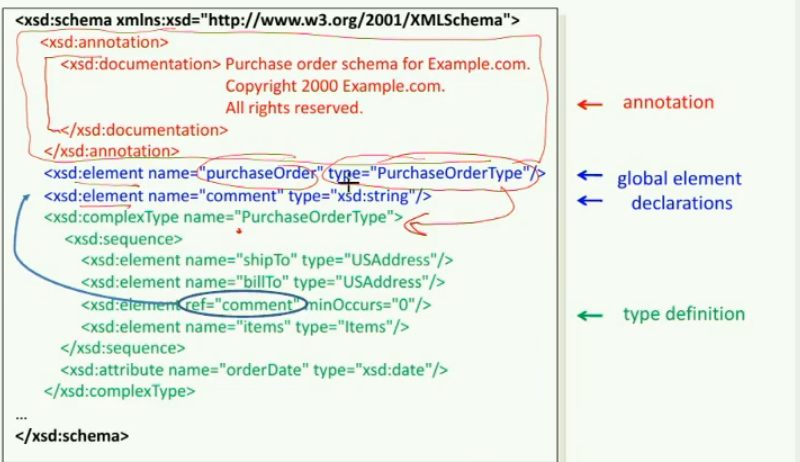
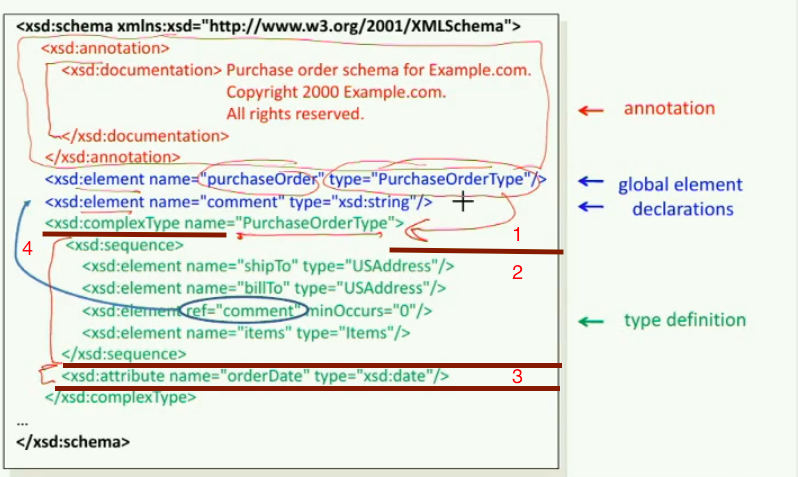
Video 04 h 15
-Esempio schema

Changed region(s): [[0.0, 0.0, 0.9323, 1.0]]

diff --git a/03 - XML Schema.md b/03 - XML Schema.md
@@ -204,7 +204,7 @@ dove:
 - Dentro alla root element possiamo trovare in qualsiasi ordine: 
   - annotazioni (che sono delle annotazioni)  
   - elementi globali e dichiarazioni di attributi che sono simili agli attributi e elementi che si hanno nei DTD. Gli elementi globali sono accessibili da tutto il documento e si ha la possibilità di referenziare a questi elementi. Ad esempio si può assegnare un nome e "riprenderlo" attraverso il suo nome
-  -  tipo (dati/modelli)   e definizioni di gruppo. In questo caso è possibile creare la sua propria definizione simile a quello che si fa nei linguaggi di programmazione e di assegnare il nome a quel tipo. La defizione di gruppo possono essere considerate delle  macro definizioni e definisce i gruppi di dichiarazioni o di definizione che possiamo referenziare dal documento stesso.
+  - tipo (dati/modelli)   e definizioni di gruppo. In questo caso è possibile creare la sua propria definizione simile a quello che si fa nei linguaggi di programmazione e di assegnare il nome a quel tipo. La defizione di gruppo possono essere considerate delle  macro definizioni e definisce i gruppi di dichiarazioni o di definizione che possiamo referenziare dal documento stesso.
 
 
 
@@ -218,21 +218,11 @@ dove:
 
 - `<xsd:element name="purchaseOrder" type="PurchaseOrderType"/>`  è una dichiarazione globale. Esso ha un nome `purchaseOrder`e un tipo `PurchaseOrderType` .  Il type include il "content model" e l'attributo dell'elemento che ha.
 
-- In verde si vede come `PurchaseOrderType` è collegato a`PurchaseOrderType` 
-
-  				
-  			
-  
-
-  
-
-  
-
-  
-
-  		
-  	
-
+  - In verde si vede come `PurchaseOrderType` è collegato a`PurchaseOrderType` :	
+  - 1 è il "content model". Si può notare che  `shipto` o come `billto` non è referenziabile in tutto in il documento.
+  -  3 è l'attributo dell'elemento.					  ![08](immagini/lezione-03/08.png)	
+  - 4 ->si può tuttavia referenciare grazie all'elemento globale `name="comment"`.
+  - Inoltre gli elementi globali appaoiono nella root del documento.
 
 
 
